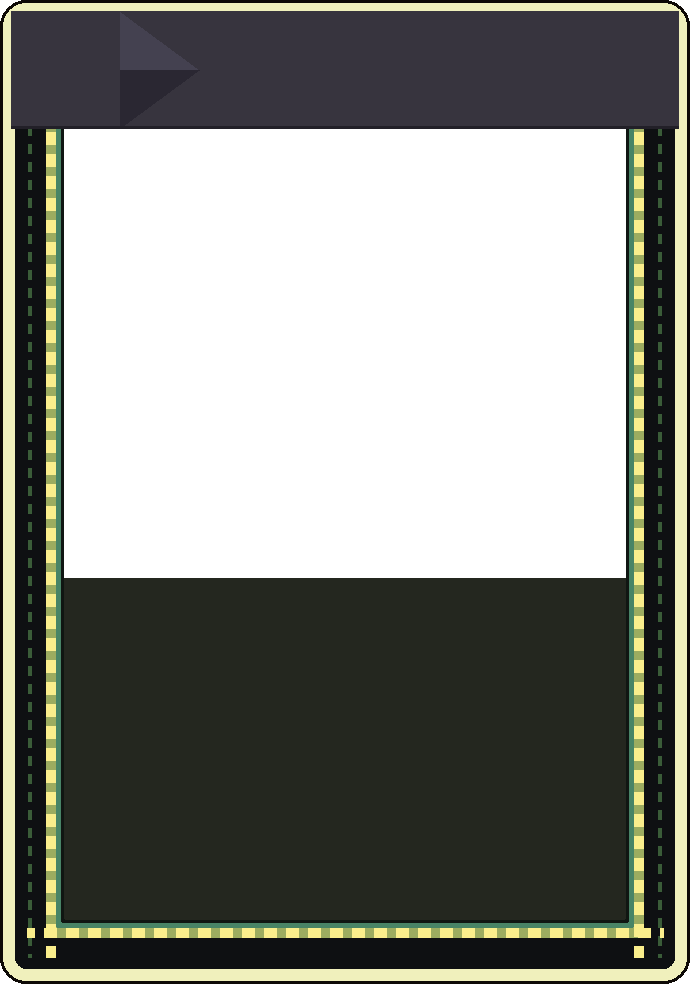
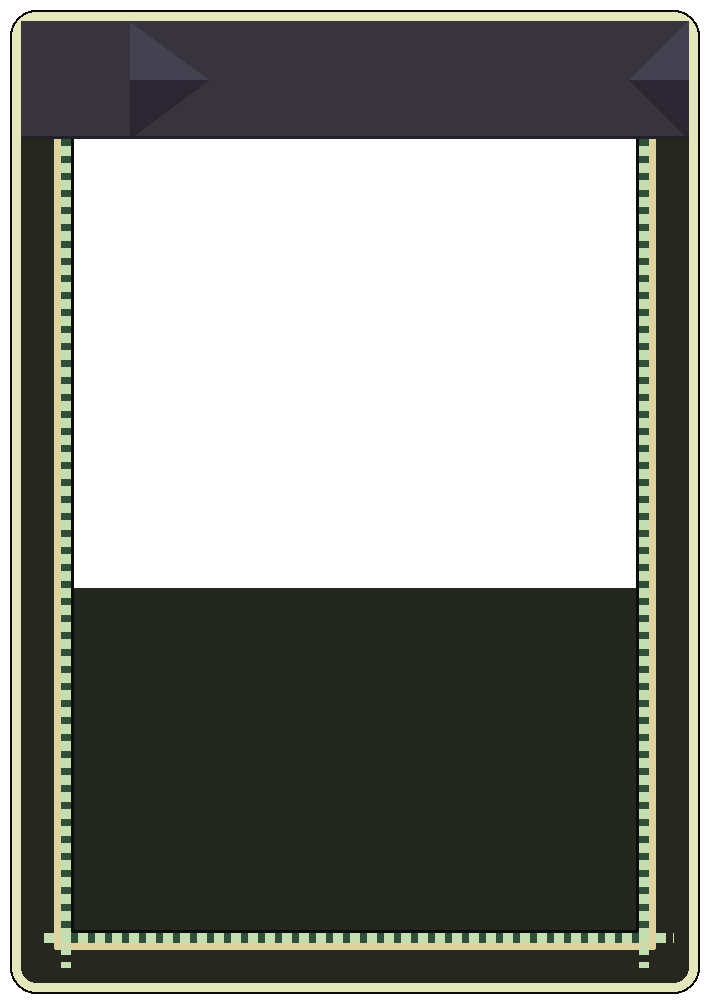
builder: card frames to TARGET's thin cream and dashed rules, anti-aliased edges; Matched check run 4
Claude-Session: https://claude.ai/code/session_01Gt6vcXUimhuEteTaZW9BRK

Changed region(s): [[0.0, 0.0, 1.0, 1.0], [0.1826, 0.061, 0.2739, 0.0915]]

diff --git a/tools/cardframe_target.py b/tools/cardframe_target.py
@@ -49,21 +49,35 @@ def rounded(draw, inset, fill):
 # dull-gold line with a green-grey line inside it, then a dark keyline round
 # the art window. The name band covers the band along the top, so the top
 # edge reads as the cream line alone, as in TARGET.
-EDGE = [((14, 10, 6), 3), ((240, 240, 188), 12), ((14, 16, 18), 31),
-        ((156, 172, 96), 10), ((72, 132, 102), 5), ((16, 22, 18), 3)]
-# The beads: TARGET's inner gold line is dotted, bright yellow beads with
-# darker olive-gold gaps (the "trim" seen at 720 down every card's sides).
-BEAD = (250, 238, 140)   # the beads: yellow-cream dots on TARGET's green inner line
-BAND_DASH = (58, 92, 56)   # faint green dashes inside the dark band
+EDGE = [((14, 10, 6), 2), ((228, 230, 188), 9), ((38, 40, 31), 33),
+        ((222, 210, 158), 7), ((48, 78, 56), 10), ((40, 66, 48), 0),
+        ((10, 14, 12), 3)]
+# Re-measured on TARGET's Tongue Snap left side and Tongue Flick right side at
+# 1024 (Matched check 2026-10-10 run 4), outside in: a thin bright cream rule
+# (~(228,230,188), ~1.5 px), a dark olive band (~(38,40,31), ~6 px) with no
+# green in it, then the rule beside the art, ~4 px: a solid warm cream line
+# (~(222,210,158)) and, on the window side, a dashed one, pale mint dashes on
+# dark green gaps, ~3 px a period at 720 (the BEAD dashes draw over it). The old frame drew a broad cream outside and a saturated yellow-green
+# rule inside, which read as a heavy double green/gold border.
+BEAD = (196, 222, 178)   # the dashes: pale mint-cream on the inner rule's dark green
+BAND_DASH = (38, 40, 31)   # TARGET's band carries no green dashes: band colour
 BAND_DASH_W = 4
 BAND_DASH_ON, BAND_DASH_PERIOD = 10, 18
-BEAD_W = 10               # px across: the gold line's width
-BEAD_ON, BEAD_PERIOD = 13, 22   # px along: ~3 screen px a bead, so the dots survive the hand's 0.13 scale (run 16)
+BEAD_W = 10               # px across: the dashed half of the inner rule
+BEAD_SKIP = 7             # px: the solid cream half before it
+BEAD_ON, BEAD_PERIOD = 10, 17   # px along: ~3 screen px a bead, so the dots survive the hand's 0.13 scale (run 16)
 CHEV_X = (120, 200)      # px: the bevel's back edge (under the gem) and its apex
+CHEV_R = 60              # px: the right-hand bevel's depth
 CHEV_LIT = (68, 65, 80)
 CHEV_DARK = (42, 39, 50)
 BAND_FROM = 11           # the name band starts inside the cream line, px
 ART_BG = (10, 11, 9)     # TARGET's art window behind an icon: near-black
+# A clear margin round the frame, px. The Compatibility renderer has no 2D
+# MSAA, so a fanned card's opaque quad edge drew a staircase down every side
+# where TARGET's edges are smooth (Matched check 2026-10-10 run 4). With clear
+# texels past the edge, the filtered alpha ramps the edge instead.
+# card_view.gd's A1_PAD must match.
+PAD = 10
 
 
 def build():
@@ -78,7 +92,7 @@ def build():
     top = inset
     # beads in the band: the band runs from b0 to b1 px in from the edge
     b0 = EDGE[0][1] + EDGE[1][1] + EDGE[2][1]
-    lo, hi = b0, b0 + BEAD_W
+    lo, hi = b0 + BEAD_SKIP, b0 + BEAD_SKIP + BEAD_W
     on = (np.arange(H) % BEAD_PERIOD) < BEAD_ON
     for x in list(range(lo, hi)) + list(range(W - hi, W - lo)):
         rows = np.nonzero(on)[0]
@@ -108,6 +122,16 @@ def build():
         xe = int(x1 - (x1 - x0) * k)
         if xe > x0:
             a[y, x0:xe, :3] = CHEV_LIT if y < mid else CHEV_DARK
+    # And at the band's right end, against the border: TARGET carves the
+    # same bevel there, mirrored, a dark notch whose apex points back at the
+    # name (Matched check 2026-10-10 run 4). Kept inside the 80 px right
+    # patch margin so the nine-patch never stretches it.
+    rx0, rx1 = W - BAND_FROM, W - BAND_FROM - CHEV_R
+    for y in range(BAND_FROM, bb - 3):
+        k = abs(y - mid) / max(1, mid - BAND_FROM)
+        xe = int(rx1 + (rx0 - rx1) * k)
+        if xe < rx0:
+            a[y, xe:rx0, :3] = CHEV_LIT if y < mid else CHEV_DARK
     # The art window, behind the art: an icon's clear ground shows black.
     ab = int(ART_BOTTOM * H)
     a[bb:ab, top:W - top, :3] = ART_BG
@@ -116,8 +140,10 @@ def build():
     # art's and a tilted card's window edge is smooth, not a staircase
     # (run 14).
     a[bb:ab, top:W - top, 3] = 0
-    Image.fromarray(a, "RGBA").save(OUT / "card_frame_t_base.png")
-    Image.new("RGBA", (W, H), (0, 0, 0, 0)).save(OUT / "card_frame_t_glow.png")
+    out = Image.new("RGBA", (W + 2 * PAD, H + 2 * PAD), (0, 0, 0, 0))
+    out.paste(Image.fromarray(a, "RGBA"), (PAD, PAD))
+    out.save(OUT / "card_frame_t_base.png")
+    Image.new("RGBA", out.size, (0, 0, 0, 0)).save(OUT / "card_frame_t_glow.png")
     print("wrote card_frame_t_base.png, card_frame_t_glow.png", W, "x", H, "edge", inset)
 
 

diff --git a/design/plan/BUILDER-QUEUE.md b/design/plan/BUILDER-QUEUE.md
@@ -13,6 +13,29 @@ run failed.
 
 **The standard is TARGET 1:1 (Nick, 2026-10-08: "build the concept 1:1").** `tools/builder/BRIEF.md` has the rules. Everything before 2026-10-07 is in `## Archive` and binds nothing.
 
+Matched check 2026-10-10 (run 4): critic A MODERATE on slab surfaces (open item); critic B MODERATE on slab surfaces, card frames, jackal facets; shared MINOR: jackal hairline cracks, card titles and coins, fist flame top, pedestal (four items queued above)
+
+- [ ] 👀 **Card frames: TARGET's thin, smooth border lines.**
+      ▶ [Test this now](obsidian://shell-commands/?vault=design&execute=fight-uri-beast&_beast=cinder_jackal) · [[BUILDER-QUEUE-NOTES#Card frames: TARGET's thin, smooth border lines.|details]]
+      Ask: nothing
+      Test: state=3d beast=cinder_jackal
+      ![[agents/frames/builder/2026-10-10-cardedge-after.png|420]] ^card-frames-target-s-thin-smooth-border
+
+- [ ] **Jackal facets and hairline cracks: TARGET's crisp planes.**
+      TARGET's shoulders, biceps and forearms are flat facet planes with hard tone breaks and its thin side cracks on the belly and forearms are sharp; the game's read slightly airbrushed and those cracks blurrier and dimmer. Critic B MODERATE, both MINOR on the cracks (2026-10-10 run 4).
+      **Done when** the --square and --beast pairs show no visible difference in the jackal's facets and hairline cracks.
+      Test: state=3d beast=cinder_jackal
+
+- [ ] **Card titles and cost coins: TARGET's size.**
+      TARGET's card names and cost coins are a touch smaller than the game's. Both critics MINOR (2026-10-10 run 4).
+      **Done when** the --square and --hand pairs show no visible difference in the card titles and coins.
+      Test: state=3d beast=cinder_jackal
+
+- [ ] **Fist flame: TARGET's defined top tongues.**
+      TARGET's flame over the raised fist ends in distinct bright tongues; the game's top tongues and left edge are a little less defined and less bright. Both critics MINOR (2026-10-10 run 4).
+      **Done when** the --square and --beast pairs show no visible difference in the fist's flame.
+      Test: state=3d beast=cinder_jackal
+
 - [ ] 👀 **Card art: Tongue Flick's sword and Tongue Snap's zigzag as TARGET draws them.**
       ▶ [Test this now](obsidian://shell-commands/?vault=design&execute=fight-uri-beast&_beast=cinder_jackal) · [[BUILDER-QUEUE-NOTES#Card art: Tongue Flick's sword and Tongue Snap's zigzag as TARGET draws them.|details]]
       Ask: nothing

diff --git a/design/plan/BUILDER-QUEUE-NOTES.md b/design/plan/BUILDER-QUEUE-NOTES.md
@@ -7,6 +7,17 @@ the builder measured and tried, what the session decided. The builder appends
 under the matching heading. Nick never has to read this page.
 
 
+## Card frames: TARGET's thin, smooth border lines.
+
+Builder 2026-10-09 23:21 EDT (Matched check run 4 queued it: critic B MODERATE, A MINOR).
+
+- The stair-step: the Compatibility renderer has no 2D MSAA, and the frame texture was opaque to its edge, so a fanned card's quad edge aliased. `cardframe_target.py` now pads the texture with a 10 px clear margin (`PAD`) and `card_view.gd` runs the nine-patch out by `A1_PAD` (patch margins + 10, position and size grown), so filtered alpha ramps the edge. Layout inside the card is unchanged.
+- The lines, re-measured on TARGET at 1024 (Tongue Snap left side, Tongue Flick right side), outside in: thin bright cream rule ~1.5 px, dark olive band ~6 px with no green, then ~4 px beside the art: a solid warm cream line and a dashed one (pale mint dashes on dark green). The old frame had a broad cream outside and a saturated yellow-green rule inside.
+- Added the mirrored bevel notch at the title band's right end, inside the 80 px right patch margin.
+- Round 1 FAIL (inner rule still heavy and green, missing notch); round 2 FAIL (inner rule solid, not dotted); round 3 PASS.
+- Meshy: none used.
+- VERDICT: PASS. Left MINOR: dashes a touch greener, notch a touch smaller than TARGET's.
+
 ## Frog and its rock: TARGET's size and place.
 
 2026-10-08 15:22 EDT. Grader PASS on round 4.

diff --git a/design/agents/status/builder.md b/design/agents/status/builder.md
@@ -2,8 +2,8 @@
 tags:
   - agent-status
 agent: builder
-updated: 2026-10-09T19:28
-working_on: "Scene lines soft: TARGET's crisp outline, cracks and slab edges."
+updated: 2026-10-09T23:21
+working_on: "Card frames: TARGET's thin, smooth border lines."
 ---
 
 # builder
@@ -13,13 +13,13 @@ The one lane that builds. Queue: [[../../plan/BUILDER-QUEUE]]. Brief:
 
 ## This run
 
-2026-10-09 22:18 EDT
+2026-10-09 23:21 EDT
 
-- **Did:** Cut two cards' art from TARGET, matched card body text weight and colours; queued four items from a Matched check.
-- **Worked?** Yes, both graded. Card art VERDICT: PASS; body text VERDICT: PASS (round 2)
-- **Look at:** ![[frames/builder/2026-10-10-cardart-before.png]] then ![[frames/builder/2026-10-10-bodytext-after.png]]
+- **Did:** Matched check queued four items; card borders redrawn to TARGET's thin cream and dashed rules, edges anti-aliased.
+- **Worked?** Yes, third round. VERDICT: PASS
+- **Look at:** ![[frames/builder/2026-10-10-cardedge-before.png]] then ![[frames/builder/2026-10-10-cardedge-after.png]]
 - **Ask:** nothing
-- **Found:** zigzag a touch cooler and the sword tip a touch blunter than TARGET's (grader MINOR).
+- **Found:** dashed inner rule a touch greener and the title bar's right notch a touch smaller than TARGET's (grader MINOR).
 
 ## Notes
 
